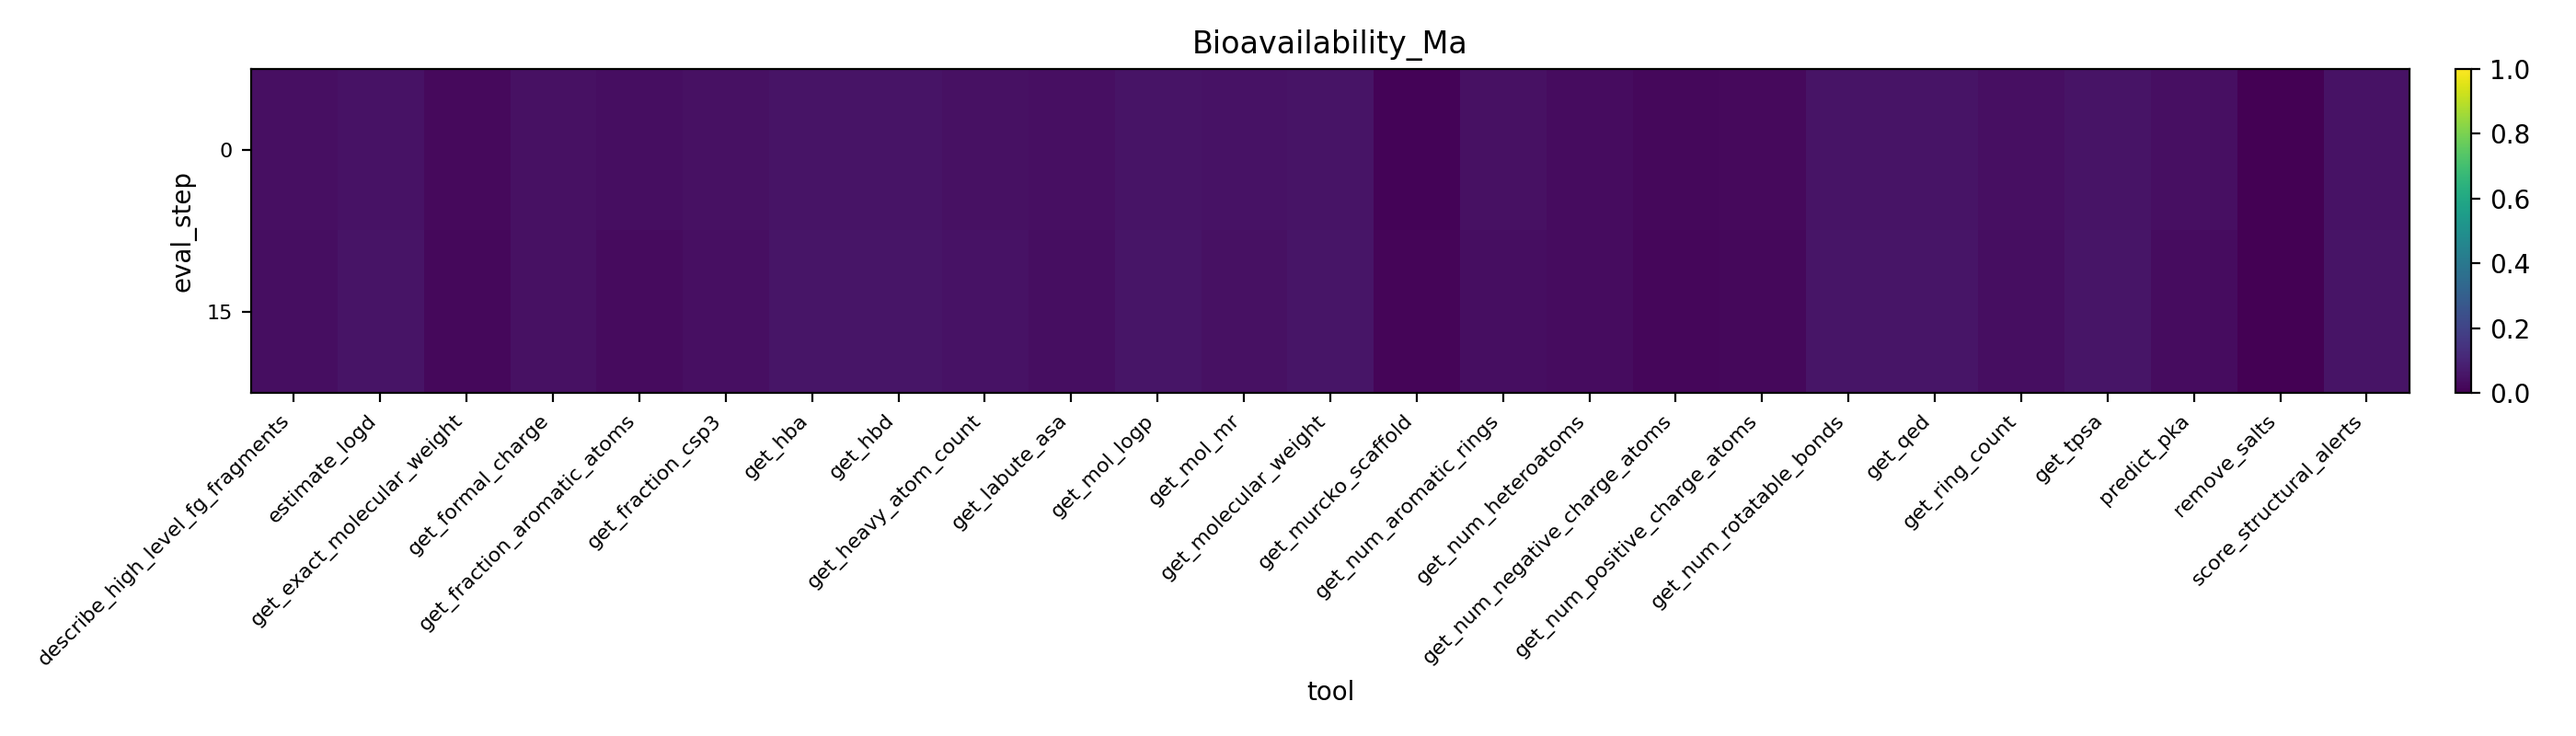
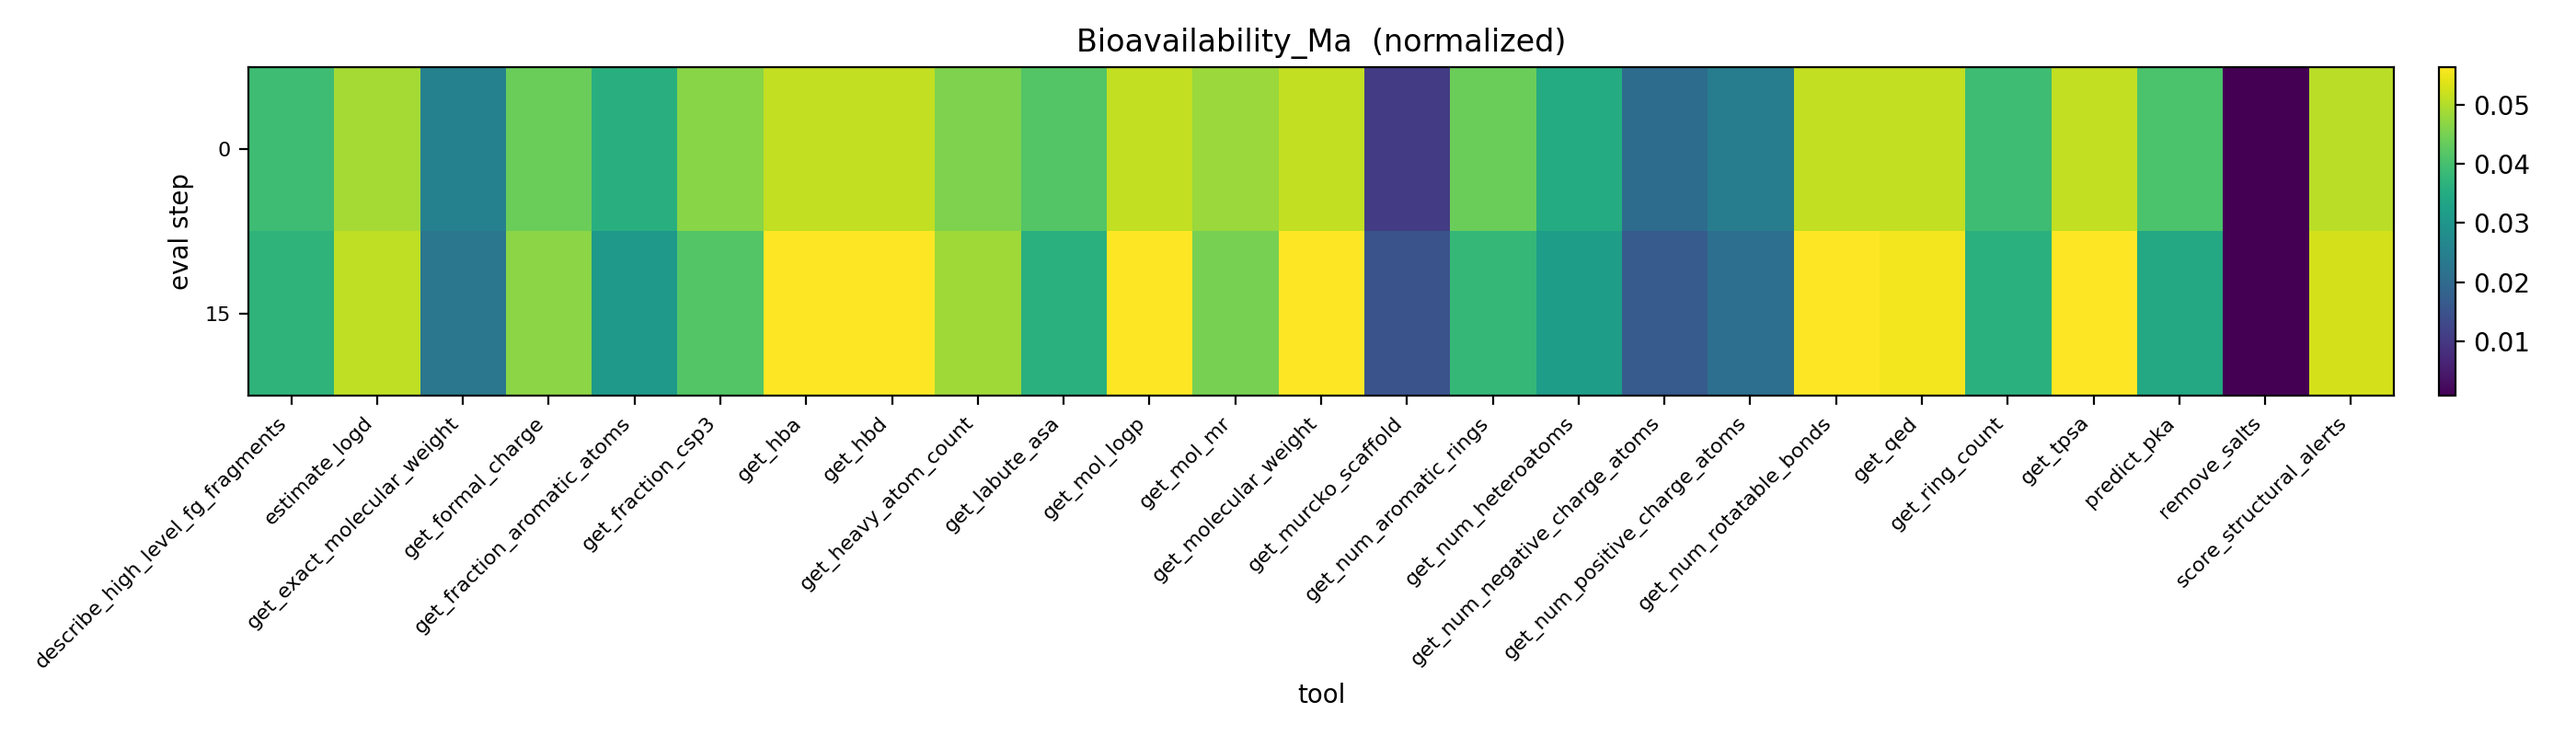
better logging; comparing set of easy tools filtered out after each epoch; fixed wandb issues potentially

diff --git a/tests/test_tdc_distribution.py b/tests/test_tdc_distribution.py
@@ -16,7 +16,13 @@ from pathlib import Path
 
 import matplotlib.pyplot as plt
 import numpy as np
-from torch.utils.data import Dataset, DataLoader, RandomSampler
+import torch
+from torch.utils.data import Dataset, DataLoader, RandomSampler, SequentialSampler
+
+# Import the interleaving function from OpenRLHF
+import sys
+sys.path.insert(0, str(Path(__file__).resolve().parent.parent))
+from openrlhf.datasets.prompts_dataset import interleave_indices_by_datasource
 
 # ── Config ──────────────────────────────────────────────────────────────────
 TASK_NAMES = [
@@ -36,7 +42,7 @@ BATCH_SIZE = 64  # matches typical GRPO micro-batch
 class SimpleTDCDataset(Dataset):
     """Loads pre-converted JSONL files, keeps only task name per sample."""
 
-    def __init__(self, task_names, data_dir):
+    def __init__(self, task_names, data_dir, interleave_seed=None):
         self.tasks = []  # task name per sample
         for task in task_names:
             path = data_dir / f"{task}_train.jsonl"
@@ -47,6 +53,14 @@ class SimpleTDCDataset(Dataset):
                 count = sum(1 for _ in f)
             self.tasks.extend([task] * count)
         print(f"Total samples: {len(self.tasks)} across {len(set(self.tasks))} tasks")
+
+        # Optionally apply curriculum-balanced interleaving
+        if interleave_seed is not None:
+            order = interleave_indices_by_datasource(
+                list(range(len(self.tasks))), self.tasks, interleave_seed
+            )
+            self.tasks = [self.tasks[i] for i in order]
+            print(f"  Applied interleave_indices_by_datasource (seed={interleave_seed})")
 
     def __len__(self):
         return len(self.tasks)
@@ -60,9 +74,17 @@ def collate_fn(batch):
 
 
 # ── Build step-by-task presence matrix ─────────────────────────────────────
-def build_presence_matrix(dataset, seed, task_names_present):
-    """Iterate through one epoch with RandomSampler and record task presence per step."""
-    sampler = RandomSampler(dataset, generator=__import__("torch").Generator().manual_seed(seed))
+def build_presence_matrix(dataset, seed, task_names_present, sequential=False):
+    """Iterate through one epoch and record task presence per step.
+
+    Args:
+        sequential: If True, use SequentialSampler (for pre-interleaved datasets).
+                    If False, use RandomSampler with given seed.
+    """
+    if sequential:
+        sampler = SequentialSampler(dataset)
+    else:
+        sampler = RandomSampler(dataset, generator=torch.Generator().manual_seed(seed))
     loader = DataLoader(dataset, batch_size=BATCH_SIZE, sampler=sampler, collate_fn=collate_fn)
 
     n_steps = len(loader)
@@ -77,10 +99,13 @@ def build_presence_matrix(dataset, seed, task_names_present):
 
 
 # ── Plotting ───────────────────────────────────────────────────────────────
-def plot_heatmaps(mat1, mat2, task_labels, n_steps, out_path):
-    fig, axes = plt.subplots(2, 1, figsize=(max(16, n_steps * 0.12), 10), sharex=True)
+def plot_heatmaps(matrices, titles, task_labels, n_steps, out_path):
+    n = len(matrices)
+    fig, axes = plt.subplots(n, 1, figsize=(max(16, n_steps * 0.12), 5 * n), sharex=True)
+    if n == 1:
+        axes = [axes]
 
-    for ax, mat, title in zip(axes, [mat1, mat2], ["Seed 42", "Seed 123"]):
+    for ax, mat, title in zip(axes, matrices, titles):
         ax.imshow(mat, aspect="auto", cmap="Blues", interpolation="nearest", vmin=0, vmax=1)
         ax.set_yticks(range(len(task_labels)))
         ax.set_yticklabels(task_labels, fontsize=8)
@@ -88,7 +113,6 @@ def plot_heatmaps(mat1, mat2, task_labels, n_steps, out_path):
         ax.set_xlabel("Step (batch)")
         ax.set_ylabel("Task")
 
-        # Add grid lines between rows
         for y in range(len(task_labels) - 1):
             ax.axhline(y + 0.5, color="gray", linewidth=0.3)
 
@@ -98,13 +122,14 @@ def plot_heatmaps(mat1, mat2, task_labels, n_steps, out_path):
     plt.close()
 
 
-def plot_cumulative_proportion(mat1, mat2, task_labels, n_steps, out_path):
+def plot_cumulative_proportion(matrices, titles, task_labels, n_steps, out_path):
     """For each task, plot cumulative proportion of samples seen vs steps."""
-    fig, axes = plt.subplots(1, 2, figsize=(20, 8), sharey=True)
+    n = len(matrices)
+    fig, axes = plt.subplots(1, n, figsize=(8 * n, 8), sharey=True)
+    if n == 1:
+        axes = [axes]
 
-    for ax, mat, title in zip(axes, [mat1, mat2], ["Seed 42", "Seed 123"]):
-        # mat shape: (n_tasks, n_steps), values are counts (0 or 1 = presence)
-        # We want cumulative sum normalized by total count for that task
+    for ax, mat, title in zip(axes, matrices, titles):
         for i, task in enumerate(task_labels):
             row = mat[i]
             cum = np.cumsum(row) / max(row.sum(), 1)
@@ -123,11 +148,11 @@ def plot_cumulative_proportion(mat1, mat2, task_labels, n_steps, out_path):
 
 # ── Main ───────────────────────────────────────────────────────────────────
 def main():
+    # 1) Random shuffle (two seeds)
     dataset = SimpleTDCDataset(TASK_NAMES, DATA_DIR)
     task_names_present = sorted(set(dataset.tasks))
     print(f"Tasks present: {task_names_present}")
 
-    # Count samples per task
     counts = defaultdict(int)
     for t in dataset.tasks:
         counts[t] += 1
@@ -135,20 +160,34 @@ def main():
     for t in task_names_present:
         print(f"  {t:40s} {counts[t]:5d}")
 
-    mat1, n_steps = build_presence_matrix(dataset, seed=42, task_names_present=task_names_present)
-    mat2, _ = build_presence_matrix(dataset, seed=123, task_names_present=task_names_present)
+    mat_rand1, n_steps = build_presence_matrix(dataset, seed=42, task_names_present=task_names_present)
+    mat_rand2, _ = build_presence_matrix(dataset, seed=123, task_names_present=task_names_present)
+
+    # 2) Interleaved (curriculum_balanced) — sequential iteration over pre-interleaved order
+    dataset_il1 = SimpleTDCDataset(TASK_NAMES, DATA_DIR, interleave_seed=42)
+    mat_il1, _ = build_presence_matrix(dataset_il1, seed=0, task_names_present=task_names_present, sequential=True)
 
     print(f"\nSteps per epoch: {n_steps} (batch_size={BATCH_SIZE})")
 
     out_dir = PROJECT_ROOT / "tests" / "plots"
     out_dir.mkdir(exist_ok=True)
 
-    plot_heatmaps(mat1, mat2, task_names_present, n_steps, out_dir / "tdc_task_distribution_heatmap.png")
-    plot_cumulative_proportion(mat1, mat2, task_names_present, n_steps, out_dir / "tdc_task_distribution_cumulative.png")
+    # Plot all three: 2 random + 1 interleaved
+    all_mats = [mat_rand1, mat_rand2, mat_il1]
+    all_titles = [
+        "Random Shuffle (seed=42)",
+        "Random Shuffle (seed=123)",
+        "Interleaved (seed=42)",
+    ]
+
+    plot_heatmaps(all_mats, all_titles, task_names_present, n_steps,
+                  out_dir / "tdc_task_distribution_heatmap.png")
+    plot_cumulative_proportion(all_mats, all_titles, task_names_present, n_steps,
+                               out_dir / "tdc_task_distribution_cumulative.png")
 
     # Summary stats
     print("\n── Coverage summary ──")
-    for name, mat in [("Seed 42", mat1), ("Seed 123", mat2)]:
+    for name, mat in zip(all_titles, all_mats):
         per_task_coverage = mat.sum(axis=1) / n_steps * 100
         print(f"\n{name}:")
         for i, t in enumerate(task_names_present):

diff --git a/scripts/replot_tool_usage.py b/scripts/replot_tool_usage.py
@@ -1,0 +1,95 @@
+#!/usr/bin/env python3
+"""Replot tool_usage_phase_histograms.png from eval_step_*.json files.
+
+Usage:
+    python scripts/replot_tool_usage.py <folder_with_json_files> [--output <path.png>] [--raw]
+
+By default uses per_dataset_normalized values with a relative color scale
+(vmin/vmax derived from the actual data range, not fixed 0-1).
+
+Pass --raw to plot raw counts instead of normalized fractions.
+"""
+
+import argparse
+import glob
+import json
+import os
+import sys
+
+import matplotlib.pyplot as plt
+import numpy as np
+
+
+def load_jsons(folder: str) -> list[dict]:
+    pattern = os.path.join(folder, "eval_step_*.json")
+    files = sorted(glob.glob(pattern), key=lambda f: int(os.path.basename(f).split("_")[-1].split(".")[0]))
+    if not files:
+        print(f"No eval_step_*.json files found in {folder}", file=sys.stderr)
+        sys.exit(1)
+    entries = []
+    for f in files:
+        with open(f) as fh:
+            entries.append(json.load(fh))
+    print(f"Loaded {len(entries)} JSON files from {folder}")
+    return entries
+
+
+def plot(entries: list[dict], output_path: str, use_raw: bool):
+    key = "per_dataset_counts" if use_raw else "per_dataset_normalized"
+    datasets = sorted({ds for entry in entries for ds in entry[key].keys()})
+    if not datasets:
+        print("No datasets found in JSON entries.", file=sys.stderr)
+        sys.exit(1)
+
+    nrows = len(datasets)
+    fig, axes = plt.subplots(nrows, 1, figsize=(14, max(4, 3 * nrows)), squeeze=False)
+
+    for row, ds in enumerate(datasets):
+        ax = axes[row][0]
+        tools = sorted({tool for entry in entries for tool in entry[key].get(ds, {}).keys()})
+        if not tools:
+            ax.set_axis_off()
+            continue
+
+        matrix = np.array(
+            [[entry[key].get(ds, {}).get(tool, 0.0) for tool in tools] for entry in entries],
+            dtype=float,
+        )
+
+        # Relative scale: let the colorbar adapt to the actual data range
+        vmin = matrix.min()
+        vmax = matrix.max()
+        if vmin == vmax:
+            vmax = vmin + 1.0  # avoid degenerate range
+
+        heatmap = ax.imshow(matrix, aspect="auto", cmap="viridis", vmin=vmin, vmax=vmax)
+        ax.set_title(f"{ds}  ({'raw counts' if use_raw else 'normalized'})")
+        ax.set_xlabel("tool")
+        ax.set_ylabel("eval step")
+        ax.set_xticks(range(len(tools)))
+        ax.set_xticklabels(tools, rotation=45, ha="right", fontsize=8)
+        y_labels = [str(entry["global_step"]) for entry in entries]
+        ax.set_yticks(range(len(y_labels)))
+        ax.set_yticklabels(y_labels, fontsize=8)
+        fig.colorbar(heatmap, ax=ax, fraction=0.025, pad=0.02)
+
+    fig.tight_layout()
+    fig.savefig(output_path, dpi=200)
+    plt.close(fig)
+    print(f"Saved plot to {output_path}")
+
+
+def main():
+    parser = argparse.ArgumentParser(description="Replot tool usage phase histograms with relative scale.")
+    parser.add_argument("folder", help="Folder containing eval_step_*.json files")
+    parser.add_argument("--output", "-o", default=None, help="Output PNG path (default: <folder>/tool_usage_phase_histograms.png)")
+    parser.add_argument("--raw", action="store_true", help="Plot raw counts instead of normalized fractions")
+    args = parser.parse_args()
+
+    entries = load_jsons(args.folder)
+    output_path = args.output or os.path.join(args.folder, "tool_usage_phase_histograms.png")
+    plot(entries, output_path, use_raw=args.raw)
+
+
+if __name__ == "__main__":
+    main()

diff --git a/openrlhf/trainer/ppo_utils/experience_maker.py b/openrlhf/trainer/ppo_utils/experience_maker.py
@@ -281,6 +281,10 @@ class SamplesGenerator:
         self._replay_hard_indices: set = set()
         self._replay_kept_indices: set = set()
 
+        # Track discarded items for telemetry, regardless of smart replay.
+        self._discarded_easy_indices: set = set()
+        self._discarded_hard_indices: set = set()
+
         # Per-step filtering stats (reset each generate_samples call).
         self._step_too_easy_count = 0
         self._step_too_hard_count = 0
@@ -428,8 +432,24 @@ class SamplesGenerator:
         """Reset replay tracking for a new episode."""
         self._replay_hard_indices = set()
         self._replay_kept_indices = set()
+        self._discarded_easy_indices = set()
+        self._discarded_hard_indices = set()
         self._episode_easy_count = 0
         self._episode_hard_count = 0
+
+    def save_discarded_indices(self, episode: int):
+        """Write the discarded indices of this episode to the runs_dir."""
+        if not self.args.dynamic_filtering:
+            return
+        out_path = os.path.join(self.runs_dir, f"discarded_indices_ep{episode}.json")
+        data = {
+            "episode": episode,
+            "too_easy": sorted(list(self._discarded_easy_indices)),
+            "too_hard": sorted(list(self._discarded_hard_indices))
+        }
+        with open(out_path, "w") as f:
+            json.dump(data, f)
+        logger.info(f"Saved {len(self._discarded_easy_indices)} too_easy and {len(self._discarded_hard_indices)} too_hard indices to {out_path}")
 
     @property
     def step_too_easy_pct(self) -> float:
@@ -587,6 +607,8 @@ class SamplesGenerator:
                         filtered_count += 1
                         self._step_too_easy_count += 1
                         self._episode_easy_count += 1
+                        if ds_idx is not None:
+                            self._discarded_easy_indices.add(ds_idx)
                         if filtered_count <= 3 or filtered_count % 25 == 0:
                             logger.info(
                                 "Dynamic filtering rejected group (too easy) "
@@ -599,6 +621,8 @@ class SamplesGenerator:
                         filtered_count += 1
                         self._step_too_hard_count += 1
                         self._episode_hard_count += 1
+                        if ds_idx is not None:
+                            self._discarded_hard_indices.add(ds_idx)
                         if smart_replay and ds_idx is not None:
                             self._replay_hard_indices.add(ds_idx)
                         if filtered_count <= 3 or filtered_count % 25 == 0:

diff --git a/openrlhf/utils/logging_utils.py b/openrlhf/utils/logging_utils.py
@@ -88,15 +88,20 @@ class WandbLogger:
         logs_dict = dict(logs_dict)
 
         generated_samples = logs_dict.pop("generated_samples", None)
+
+        metrics = {k: v for k, v in logs_dict.items() if v is not None}
+        logs = {"train/%s" % k: v for k, v in {**metrics, "global_step": global_step}.items()}
+
         if generated_samples:
             # https://github.com/wandb/wandb/issues/2981#issuecomment-1997445737
             new_table = self.handle.Table(columns=self.samples_table.columns, data=self.samples_table.data)
             new_table.add_data(global_step, *generated_samples)
             self.samples_table = new_table
-            self.handle.log({"train/generated_samples": new_table})
+            logs["train/generated_samples"] = new_table
 
-        metrics = {k: v for k, v in logs_dict.items() if v is not None}
-        logs = {"train/%s" % k: v for k, v in {**metrics, "global_step": global_step}.items()}
+        # Single wandb.log() call to avoid step_sync issues — two separate
+        # calls would create an extra W&B internal step without
+        # train/global_step, causing metric corruption with step_sync=True.
         self.handle.log(logs)
 
     def log_eval(self, global_step: int, logs_dict: Dict[str, Any]) -> None:

diff --git a/openrlhf/trainer/ray/ppo_actor.py b/openrlhf/trainer/ray/ppo_actor.py
@@ -346,6 +346,16 @@ class ActorPPOTrainer(ABC):
                 status[k] = torch.tensor(v, dtype=torch.float).mean().item()
             elif isinstance(v, torch.Tensor):
                 status[k] = v.float().mean().item()
+
+        # Sanity check: reward/score/clip_ratio should never exceed reasonable bounds.
+        _BOUNDED_KEYS = {"reward": 10, "score": 10, "return": 100, "response_clip_ratio": 1.01}
+        for k, bound in _BOUNDED_KEYS.items():
+            if k in status and abs(status[k]) > bound:
+                logger.warning(
+                    f"[METRIC SANITY] {k}={status[k]:.4f} exceeds bound {bound}. "
+                    f"info type={type(experience.info.get(k))}, "
+                    f"info value={experience.info.get(k)}"
+                )
         return status
 
     def broadcast_to_vllm(self):

diff --git a/openrlhf/utils/tool_versions.py b/openrlhf/utils/tool_versions.py
@@ -4,7 +4,7 @@ Versions (incremental):
   - v1: RDKit basic + AccFG
   - v2: v1 + remove_salts (standardize_tools)
   - v3: v2 + predict_pka + estimate_logd + get_3d_exposed_polar_surface
-  - v4: v3 + 10 Haydn tools
+  - v4: v3 + score_structural_alerts (Haydn; no Murcko scaffold)
 
 Usage::
 
@@ -182,7 +182,7 @@ except ImportError:
     HAYDN_OPENAI_TOOLS = []
     HAYDN_CALLABLES = {}
 
-_V4_HAYDN_NAMES = {"score_structural_alerts", "get_murcko_scaffold"}
+_V4_HAYDN_NAMES = {"score_structural_alerts"}
 _V4_SCHEMAS: List[Dict[str, Any]] = _V3_SCHEMAS + [
     t for t in HAYDN_OPENAI_TOOLS if t["function"]["name"] in _V4_HAYDN_NAMES
 ]

diff --git a/openrlhf/trainer/ppo_trainer.py b/openrlhf/trainer/ppo_trainer.py
@@ -778,6 +778,9 @@ class PPOTrainer(BasePPOTrainer):
                 del rollout_samples, status
                 gc.collect()
 
+            # --- Save discarded prompts for offline analysis ---
+            self.samples_generator.save_discarded_indices(episode)
+
             # --- Smart replay: log episode stats and run replay episodes ---
             if getattr(self.args, "smart_replay", False):
                 if self.wandb_logger:

diff --git a/openrlhf/trainer/ppo_trainer_async.py b/openrlhf/trainer/ppo_trainer_async.py
@@ -108,6 +108,7 @@ class GenerateSamplesActor:
                     break
 
             pbar.close()
+            self.samples_generator.save_discarded_indices(episode)
 
         self.rollout_queue.put("done", block=True)
 
